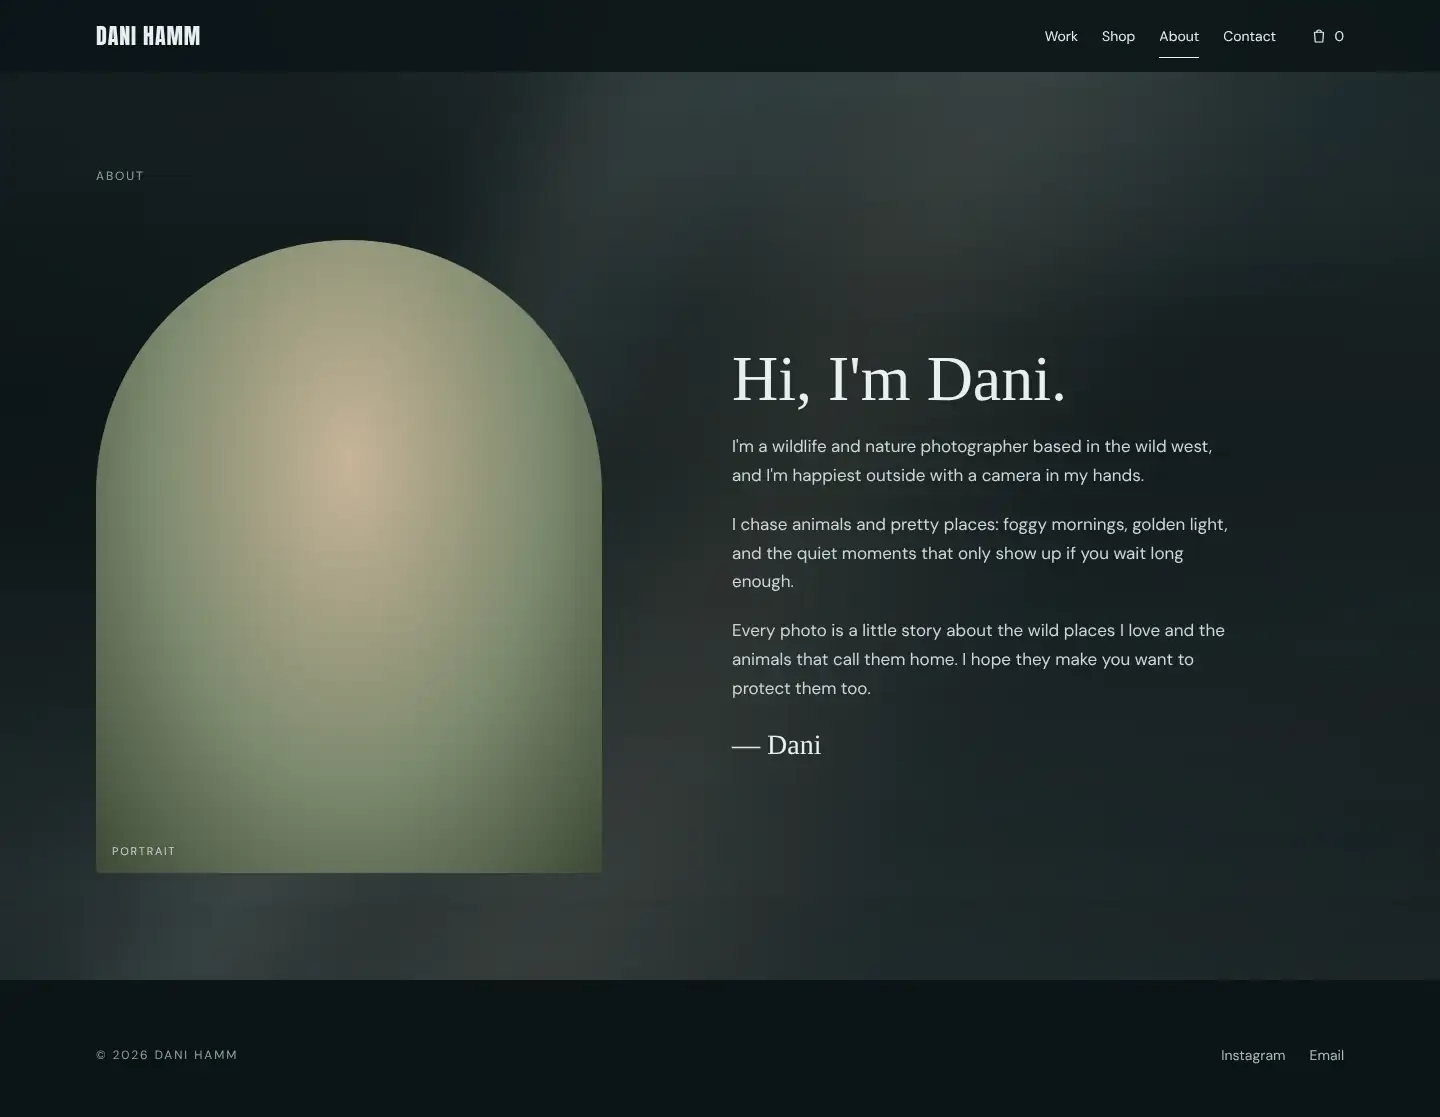
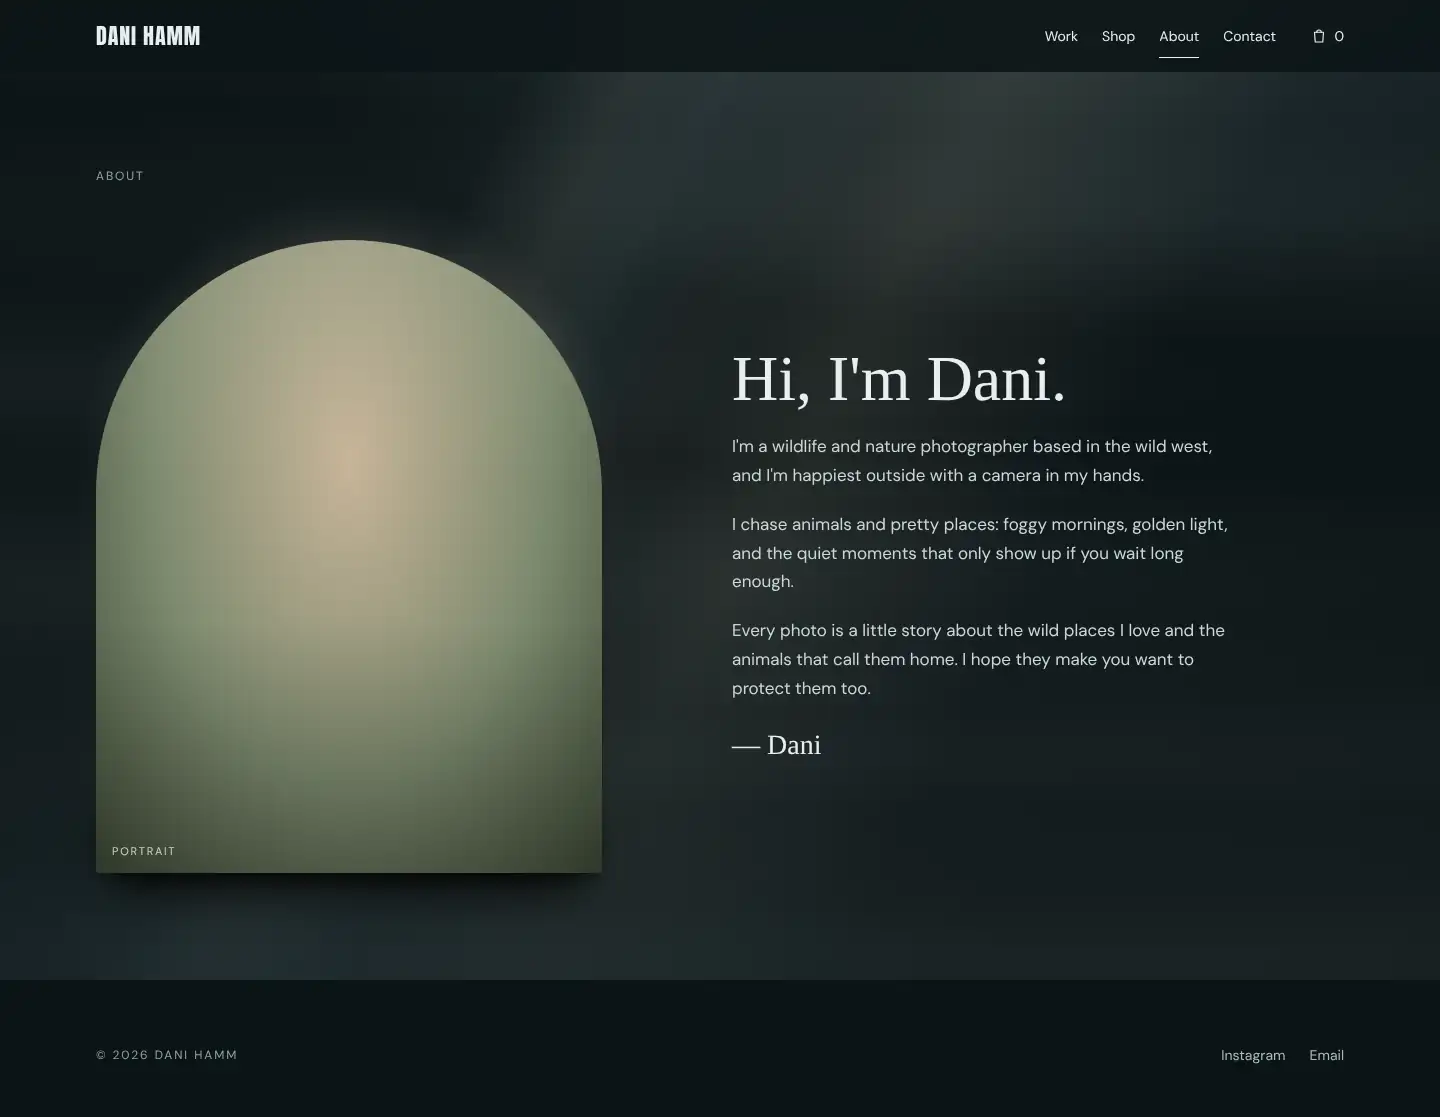
Re-shoot Dani Hamm pages after gallery-lighting update
- Fresh desktop, phone and tile screenshots for all five Dani pages
  (gallery lighting, rebuilt background)
- Mention gallery lighting, fog/light beams and smooth scrolling in
  the write-up
- Version screenshot URLs so browsers fetch the new images

Claude-Session: https://claude.ai/code/session_01S1GkKjA7JTsXNm3XxvC6Wo

Changed region(s): [[0.0625, 0.7305, 0.4375, 0.8218]]

diff --git a/index.html b/index.html
@@ -225,9 +225,9 @@ a:focus-visible{outline:3px solid var(--acc);outline-offset:3px;border-radius:4p
       <p class="where">George Blanchard Jr. · Plantsville, Connecticut</p>
     </div>
     <div class="stage" aria-hidden="true">
-      <div class="br s1"><div class="bar"><i></i><i></i><i></i><span>Hafele Landscaping &amp; Snow Removal</span></div><img src="img/v3/d-hafele-home.webp" alt=""></div>
-      <div class="br s2"><div class="bar"><i></i><i></i><i></i><span>Dani Hamm — Prints &amp; goods</span></div><img src="img/v3/d-dani-shop.webp" alt=""></div>
-      <div class="ph s3"><img src="img/v3/m-hafele-home.webp" alt=""></div>
+      <div class="br s1"><div class="bar"><i></i><i></i><i></i><span>Hafele Landscaping &amp; Snow Removal</span></div><img src="img/v3/d-hafele-home.webp?v=2" alt=""></div>
+      <div class="br s2"><div class="bar"><i></i><i></i><i></i><span>Dani Hamm — Prints &amp; goods</span></div><img src="img/v3/d-dani-shop.webp?v=2" alt=""></div>
+      <div class="ph s3"><img src="img/v3/m-hafele-home.webp?v=2" alt=""></div>
     </div>
   </div>
 </section>
@@ -238,35 +238,35 @@ a:focus-visible{outline:3px solid var(--acc);outline-offset:3px;border-radius:4p
     <p class="sub">Every page of every site. Tap one to open it full size and scroll through it.</p>
     <div class="grid">
       <button class="tile" type="button" data-i="0" style="--t-bg:#1D3326;--t-ink:#F6F2E6;--t-acc:#CBB373" aria-label="Open Hafele Landscaping, Home page">
-        <span class="shot"><img src="img/v3/t-hafele-home.webp" alt="" loading="lazy"></span>
+        <span class="shot"><img src="img/v3/t-hafele-home.webp?v=2" alt="" loading="lazy"></span>
         <span class="lbl"><span class="cl">Hafele Landscaping</span><span class="pg">Home</span></span>
       </button>
       <button class="tile" type="button" data-i="1" style="--t-bg:#1D3326;--t-ink:#F6F2E6;--t-acc:#CBB373" aria-label="Open Hafele Landscaping, Services page">
-        <span class="shot"><img src="img/v3/t-hafele-services.webp" alt="" loading="lazy"></span>
+        <span class="shot"><img src="img/v3/t-hafele-services.webp?v=2" alt="" loading="lazy"></span>
         <span class="lbl"><span class="cl">Hafele Landscaping</span><span class="pg">Services</span></span>
       </button>
       <button class="tile" type="button" data-i="2" style="--t-bg:#1D3326;--t-ink:#F6F2E6;--t-acc:#CBB373" aria-label="Open Hafele Landscaping, About &amp; contact page">
-        <span class="shot"><img src="img/v3/t-hafele-about.webp" alt="" loading="lazy"></span>
+        <span class="shot"><img src="img/v3/t-hafele-about.webp?v=2" alt="" loading="lazy"></span>
         <span class="lbl"><span class="cl">Hafele Landscaping</span><span class="pg">About &amp; contact</span></span>
       </button>
       <button class="tile" type="button" data-i="3" style="--t-bg:#121A1D;--t-ink:#E9EEF0;--t-acc:#8FB1B8" aria-label="Open Dani Hamm, Home page">
-        <span class="shot"><img src="img/v3/t-dani-home.webp" alt="" loading="lazy"></span>
+        <span class="shot"><img src="img/v3/t-dani-home.webp?v=2" alt="" loading="lazy"></span>
         <span class="lbl"><span class="cl">Dani Hamm</span><span class="pg">Home</span></span>
       </button>
       <button class="tile" type="button" data-i="4" style="--t-bg:#121A1D;--t-ink:#E9EEF0;--t-acc:#8FB1B8" aria-label="Open Dani Hamm, Shop page">
-        <span class="shot"><img src="img/v3/t-dani-shop.webp" alt="" loading="lazy"></span>
+        <span class="shot"><img src="img/v3/t-dani-shop.webp?v=2" alt="" loading="lazy"></span>
         <span class="lbl"><span class="cl">Dani Hamm</span><span class="pg">Shop</span></span>
       </button>
       <button class="tile" type="button" data-i="5" style="--t-bg:#121A1D;--t-ink:#E9EEF0;--t-acc:#8FB1B8" aria-label="Open Dani Hamm, Product page">
-        <span class="shot"><img src="img/v3/t-dani-product.webp" alt="" loading="lazy"></span>
+        <span class="shot"><img src="img/v3/t-dani-product.webp?v=2" alt="" loading="lazy"></span>
         <span class="lbl"><span class="cl">Dani Hamm</span><span class="pg">Product</span></span>
       </button>
       <button class="tile" type="button" data-i="6" style="--t-bg:#121A1D;--t-ink:#E9EEF0;--t-acc:#8FB1B8" aria-label="Open Dani Hamm, About page">
-        <span class="shot"><img src="img/v3/t-dani-about.webp" alt="" loading="lazy"></span>
+        <span class="shot"><img src="img/v3/t-dani-about.webp?v=2" alt="" loading="lazy"></span>
         <span class="lbl"><span class="cl">Dani Hamm</span><span class="pg">About</span></span>
       </button>
       <button class="tile" type="button" data-i="7" style="--t-bg:#121A1D;--t-ink:#E9EEF0;--t-acc:#8FB1B8" aria-label="Open Dani Hamm, Contact page">
-        <span class="shot"><img src="img/v3/t-dani-contact.webp" alt="" loading="lazy"></span>
+        <span class="shot"><img src="img/v3/t-dani-contact.webp?v=2" alt="" loading="lazy"></span>
         <span class="lbl"><span class="cl">Dani Hamm</span><span class="pg">Contact</span></span>
       </button>
     </div>
@@ -319,6 +319,7 @@ a:focus-visible{outline:3px solid var(--acc);outline-offset:3px;border-radius:4p
           <li><strong>Shop with eight products:</strong> prints, canvas, framed, metal, mugs, postcards, calendars and tees.</li>
           <li><strong>Product pages</strong> where the buyer picks the photo, size, colour and quantity, with a working cart.</li>
           <li><strong>About and contact</strong> pages with an inquiry form.</li>
+          <li><strong>Small touches:</strong> gallery lighting on every image, drifting fog and light beams behind each page, and smooth, slightly slower scrolling with a mouse or trackpad.</li>
         </ul>
       </div>
       <div>
@@ -434,7 +435,7 @@ a:focus-visible{outline:3px solid var(--acc);outline-offset:3px;border-radius:4p
     mode = m;
     zoom.querySelectorAll('.seg button').forEach(b => b.setAttribute('aria-pressed', b.dataset.mode === m ? 'true' : 'false'));
     frame.classList.toggle('phone', m === 'phone');
-    if (cur > -1) { img.src = 'img/v3/' + (m === 'phone' ? 'm-' : 'd-') + ITEMS[cur].k + '.webp'; vp.scrollTop = 0; }
+    if (cur > -1) { img.src = 'img/v3/' + (m === 'phone' ? 'm-' : 'd-') + ITEMS[cur].k + '.webp?v=2'; vp.scrollTop = 0; }
   };
 
   const show = (i, dir) => {
@@ -446,13 +447,13 @@ a:focus-visible{outline:3px solid var(--acc);outline-offset:3px;border-radius:4p
     $('zurl').textContent = it.u.replace('https://', '');
     $('zlive').href = it.u;
     img.alt = it.a;
-    img.src = 'img/v3/' + (mode === 'phone' ? 'm-' : 'd-') + it.k + '.webp';
+    img.src = 'img/v3/' + (mode === 'phone' ? 'm-' : 'd-') + it.k + '.webp?v=2';
     vp.scrollTop = 0;
     tabs.innerHTML = ITEMS.map((x, j) => x.s === it.s ? `<button type="button" role="tab" data-j="${j}" aria-selected="${j === cur}">${x.p.replace('&', '&amp;')}</button>` : '').join('');
     tabs.querySelector('[aria-selected=true]')?.scrollIntoView({block: 'nearest', inline: 'nearest'});
     dots.innerHTML = ITEMS.map((x, j) => `<i class="${j === cur ? 'on' : ''}"></i>`).join('');
     if (dir) { frame.classList.remove('slide-l', 'slide-r'); void frame.offsetWidth; frame.classList.add(dir > 0 ? 'slide-l' : 'slide-r'); }
-    [cur - 1, cur + 1].forEach(j => { const x = ITEMS[(j + ITEMS.length) % ITEMS.length]; new Image().src = 'img/v3/' + (mode === 'phone' ? 'm-' : 'd-') + x.k + '.webp'; });
+    [cur - 1, cur + 1].forEach(j => { const x = ITEMS[(j + ITEMS.length) % ITEMS.length]; new Image().src = 'img/v3/' + (mode === 'phone' ? 'm-' : 'd-') + x.k + '.webp?v=2'; });
   };
 
   const rectClip = r => `inset(${r.top}px ${innerWidth - r.right}px ${innerHeight - r.bottom}px ${r.left}px round 14px)`;
